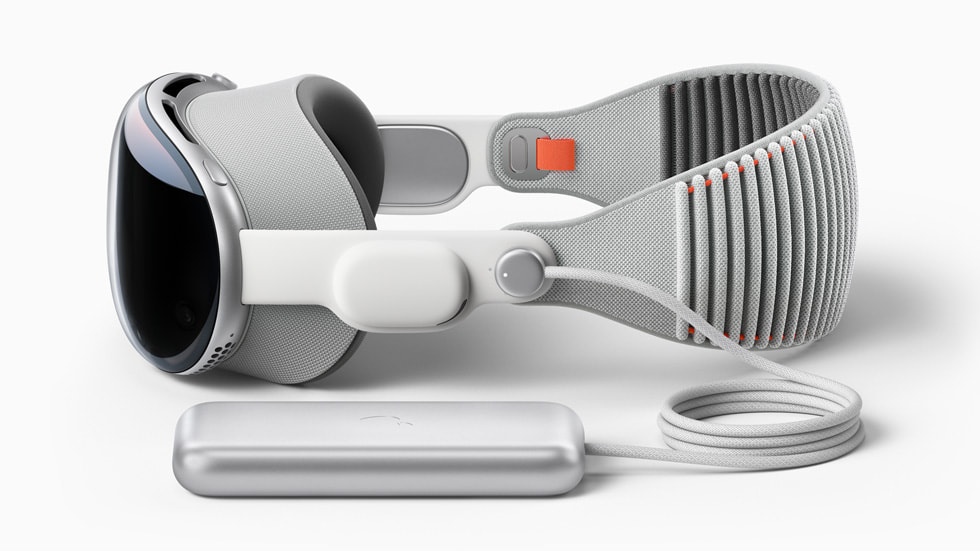
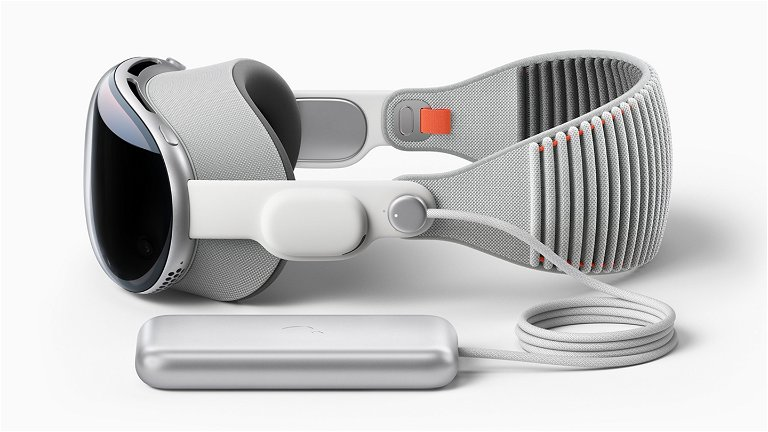
feat: Adding new images with better resolution, also adding the logout fix

diff --git a/puraCompra/src/components/header/Header.jsx b/puraCompra/src/components/header/Header.jsx
@@ -17,6 +17,12 @@ export default function Header() {
 
   const navigate = useNavigate();
 
+  const logOut = () => {
+    sessionstorage.removeItem('user');
+    logout();
+    navigate('/');
+  }
+
   const handleNavigate = (path) => {
     navigate(path);
     setIsMenuOpen(false); // Cerrar el menú después de la navegación
@@ -57,7 +63,7 @@ export default function Header() {
                   <ListGroup.Item onClick={() => handleNavigate('/register')} icon={HiOutlineAdjustments}>
                     Settings
                   </ListGroup.Item>
-                  <ListGroup.Item onClick={logout} icon={HiUserCircle}>
+                  <ListGroup.Item onClick={logOut} icon={HiUserCircle}>
                     Logout
                   </ListGroup.Item>
                 </>

diff --git a/Api/routes/productsRoutes.js b/Api/routes/productsRoutes.js
@@ -1,6 +1,7 @@
 import express from 'express';
 
 import { createProduct ,getProducts, getProductById, updateProduct, deleteProduct } from '../controllers/productsControllers.js';
+import { scrapProduct } from '../controllers/scrapperController.js';
 
 const router = express.Router();
 
@@ -9,5 +10,6 @@ router.post('/', createProduct);
 router.get('/:id', getProductById);
 router.put('/:id', updateProduct);
 router.delete('/:id', deleteProduct);
+router.post('/scrap', scrapProduct);
 
 export default router;

diff --git a/Api/controllers/scrapperController.js b/Api/controllers/scrapperController.js
@@ -1,0 +1,11 @@
+import scrapeAmazon from "../scrapper/scrapeAmazon.js";
+
+export const scrapProduct = async (request, response) => {
+  const { url, productName } = request.body;
+  try {
+    const product = await scrapeAmazon(url, productName);
+    response.json(product);
+  } catch (error) {
+    response.status(500).json({ message: error.message });
+  }
+}
